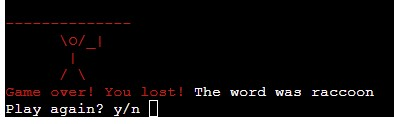
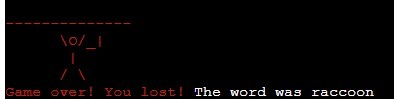
fix error with data validation for play again question

diff --git a/run.py b/run.py
@@ -136,8 +136,13 @@ def play_again():
     """
     function that gives the option to play the game again
     """
-    while input("Play again? y/n ").lower() == "y":
-        the_game()
+    start_over = input("Do you want to play again? enter y for yes or "
+                       "any other letter to exit: ")
+
+    if start_over.lower() == "y":
+        main()
+    else:
+        exit()
 
 
 def display_letter(word, random_word, playerguess):

diff --git a/README.md b/README.md
@@ -63,13 +63,29 @@ Players lose the game when they run out of incorrect guesses and the full graphi
 
 ![nav](images/playerlost.jpg)
 
-For both instances of winning and losing, the player is asked if they want to play again. They can input y for yes and n for no.
+For both instances of winning and losing, the player is asked if they want to play again. They can input y for yes or any other letter to exit.
+
+![nav](images/playagain.jpg)
 
 ## Data model
 
 A class called CategoryChoice was used in this game, which has 3 different instances (one for each category). The class has a property of self.category and a method of category_selection, which determines the category to display based on the input of the player. It also displays a message on the terminal to confirm this with the player.
 
 ## Data validation
+
+There are multiple times that the player is required to enter an input. For all of these, the data is validated.
+
+- Name request input. 
+
+Input data is validated by a while loop that returns 'please enter a valid name' if the field is left blank. Players are allowed to use numbers and characters in their name, so this only returns an error and does not move forward with the game when it is left blank. Once a valid name is entered, the while loop breaks and the game continues.
+
+- Category selection input. 
+
+Players can only enter in numbers 1, 2 or 3 here. This is validated in the same if statement that assigns a value to 'word' based on the word list selected (if the category is food, the random word will be generated from the food list). This if statement ends with an 'else' (which means that if the selection is not 1, 2 or 3), then a print statement will appear saying to make a valid choice and the options will be presented again. Players cannot continue with the game until they make a valid choice.
+
+- Guessing letters input.
+
+This is validated with the use of a try/except statement. If the player's guess is not in the 'validchoices' set (the alphabet), then this will raise a value error. The value error prints a message informing the player to only enter a letter of the alphabet. This does not impact how far they have gotten in the game already, their already guessed letters will still show and the letters used will still remain the same. They will just need to enter a valid character in order to continue playing.
 
 ## Testing
 
@@ -98,6 +114,10 @@ The following features were tested:
 
 
 Validator testing was done through PEP8 - no errors returned (http://pep8online.com/)
+
+Fixed bugs
+
+There was one known bug which is that when a user selects 'y' to play again, the game does play again as expected, however it automatically starts a new game again at the end of the second game. What should happen is that the player is presented with question if they want to play again. This was fixed by changing the function being called when 'y' was entered to main() instead of the the_game() function. The while loop was also changed to an if statement, which is set to exit if anything other than y is entered.
 
 ## Deployment
 
